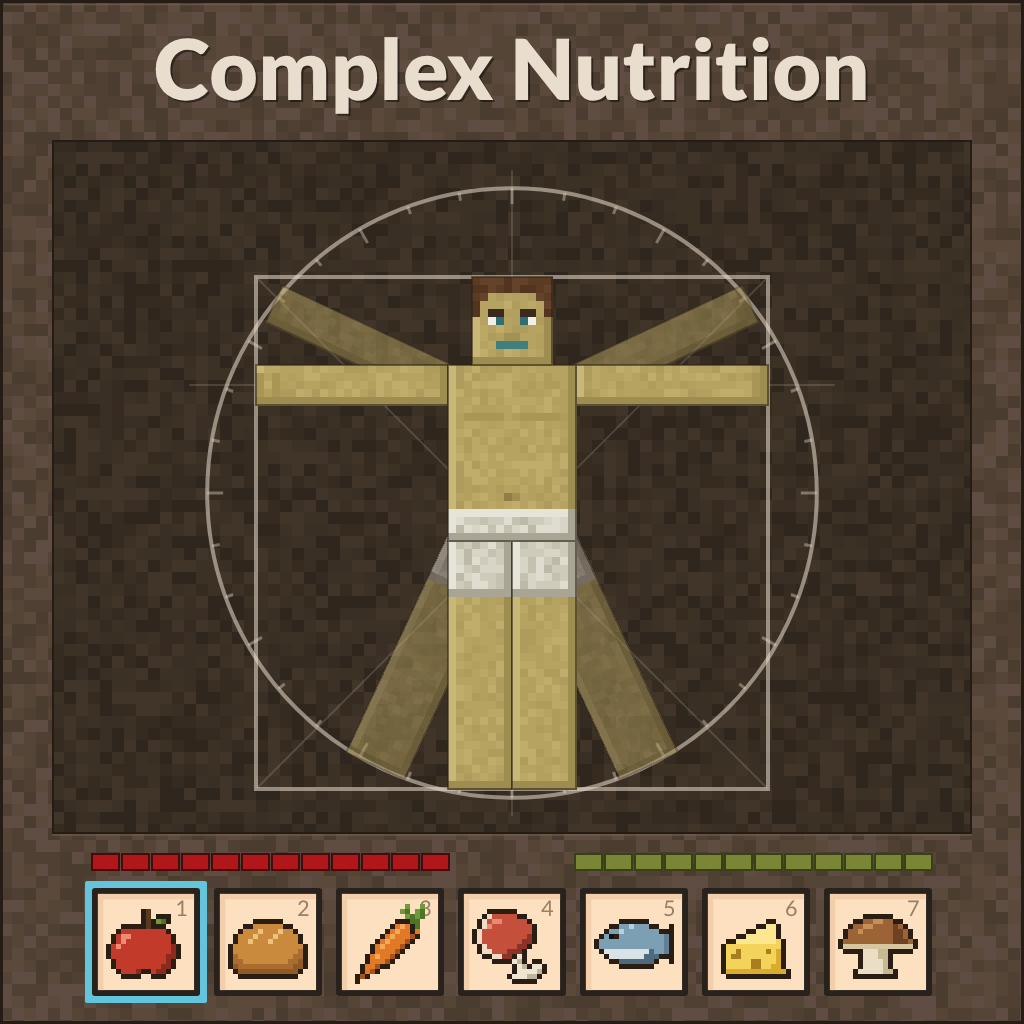
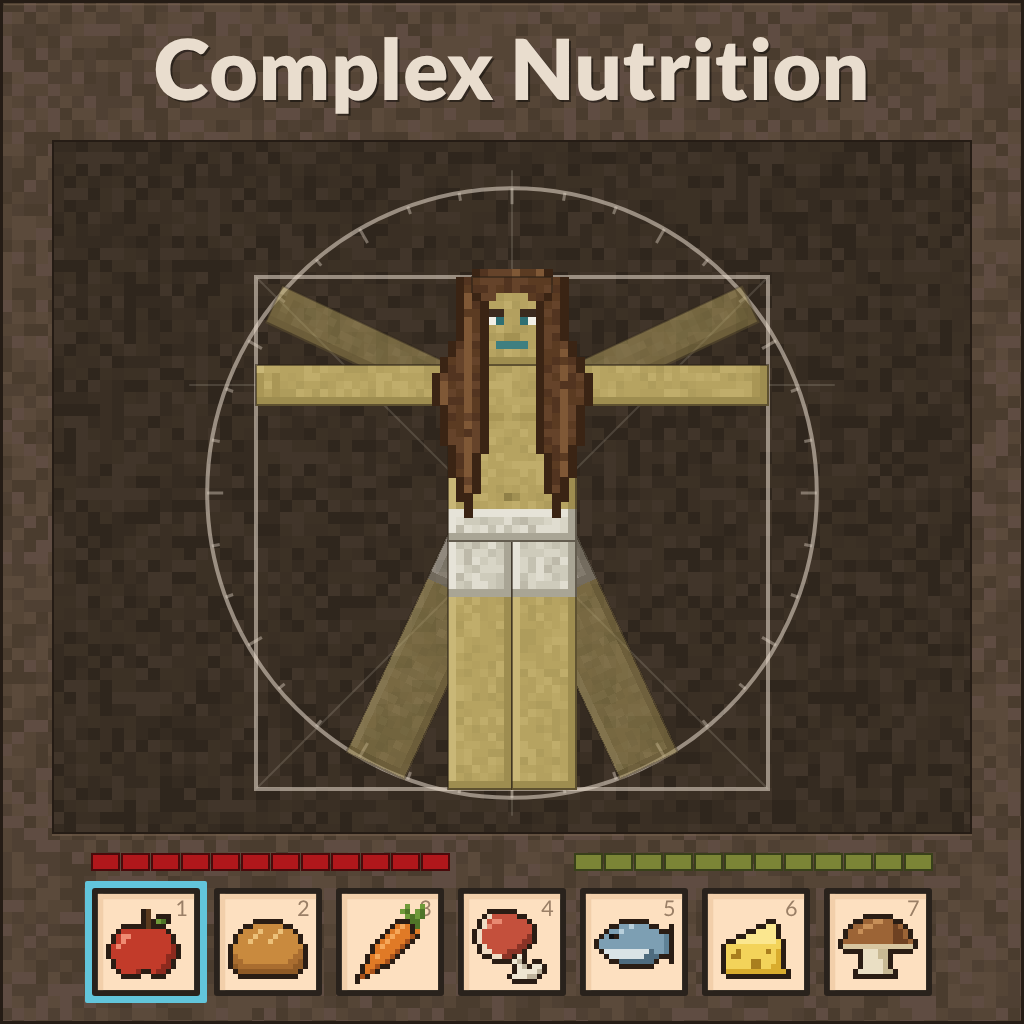
Long hair for the thumbnail figure; add v0.6 allergies to the roadmap
- Thumbnail character gets long brown hair falling over the shoulders.
- v0.6 (hidden food allergies, optional and off by default) added to the
  roadmap banner, README roadmap and module table, docs/ROADMAP.md and
  the v0.1 mod page draft.

Claude-Session: https://claude.ai/code/session_01XNC4SaMt6rLH8MzhCYGe32

Changed region(s): [[0.4062, 0.25, 0.5938, 0.5]]

diff --git a/art/roadmap.html b/art/roadmap.html
@@ -23,7 +23,8 @@ const MILESTONES = [
   { v: 'v0.3',  title: 'Nutrition UI',            note: '',                     icon: 'book',     status: 'planned' },
   { v: 'v0.4',  title: 'Diet tiers|& effects',    note: '',                     icon: 'heart',    status: 'planned' },
   { v: 'v0.5',  title: 'Health &|effects UI',     note: '',                     icon: 'flask',    status: 'planned' },
-  { v: 'v1.0',  title: 'Settings menu',           note: '',                     icon: 'cog',      status: 'planned' },
+  { v: 'v0.6',  title: 'Hidden|allergies',        note: 'off by default',       icon: 'peanut',   status: 'planned' },
+  { v: 'v1.0',  title: 'Settings|menu',           note: '',                     icon: 'cog',      status: 'planned' },
   { v: 'v1.01', title: 'Uptake|modifiers',        note: 'stretch goal',         icon: 'thermo',   status: 'planned' },
   { v: 'v1.02', title: 'Exercise|& fitness',      note: 'stretch goal',         icon: 'boot',     status: 'planned' },
   { v: 'v1.03', title: 'Who knows!',              note: 'suggestions welcome',  icon: 'question', status: 'planned' },
@@ -79,6 +80,10 @@ const GLYPH = {
     el('path', { d: 'M-20,26 L42,26 M-12,-28 L10,-28 M-12,-16 L10,-16', 'stroke-width': 2.5 }, g);
     el('path', { d: 'M-40,-6 l12,0 M-44,6 l14,0 M-38,18 l10,0', 'stroke-width': 2.5 }, g);
   },
+  peanut(g) {
+    el('path', { d: 'M-6,-40 C-26,-40 -30,-18 -18,-6 C-10,2 -30,14 -22,30 C-14,44 10,44 18,32 C26,20 10,6 18,-6 C28,-20 16,-40 -6,-40 Z' }, g);
+    for (const [x, y] of [[-10, -26], [4, -30], [-2, -16], [8, -14], [-8, 20], [6, 26], [0, 12], [-12, 30]]) el('circle', { cx: x, cy: y, r: 1.6, fill: 'currentColor', stroke: 'none' }, g);
+  },
   question(g) {
     el('path', { d: 'M-16,-18 C-16,-40 18,-42 18,-20 C18,-6 0,-4 0,10 L0,16', 'stroke-width': 6 }, g);
     el('circle', { cx: 0, cy: 32, r: 4, fill: 'currentColor' }, g);
@@ -106,7 +111,7 @@ lg.forEach(([label, ring], i) => {
 });
 
 // the milestone row sits in a sunken area, like an inventory grid
-const n = MILESTONES.length, S = 150, GAP = 40;
+const n = MILESTONES.length, S = 136, GAP = 36;
 const x0 = (W - (n * S + (n - 1) * GAP)) / 2;
 inset(svg, x0 - 40, 214, n * S + (n - 1) * GAP + 80, 430, 10, 12);
 
@@ -123,7 +128,7 @@ MILESTONES.forEach((m, i) => {
   const ring = m.status === 'done' ? VS.done : m.status === 'next' ? VS.selected : null;
   slot(svg, x, y, S, { ring });
   const ink = m.status === 'planned' ? VS.slotIcon : '#7d5a3a';
-  const g = el('g', { transform: `translate(${x + S / 2},${y + S / 2}) scale(1.15)`, fill: 'none', stroke: ink, color: ink, 'stroke-width': 4, 'stroke-linecap': 'round', 'stroke-linejoin': 'round' }, svg);
+  const g = el('g', { transform: `translate(${x + S / 2},${y + S / 2}) scale(1.05)`, fill: 'none', stroke: ink, color: ink, 'stroke-width': 4, 'stroke-linecap': 'round', 'stroke-linejoin': 'round' }, svg);
   GLYPH[m.icon](g);
   if (m.status === 'done') {          // check-mark badge in the corner
     const b = el('g', { transform: `translate(${x + S - 8},${y + 8})` }, svg);
@@ -133,9 +138,9 @@ MILESTONES.forEach((m, i) => {
 
   const cx = x + S / 2;
   const vcol = m.status === 'done' ? '#c2d06a' : m.status === 'next' ? VS.selected : VS.text;
-  text(svg, cx, y + S + 50, m.v, { 'text-anchor': 'middle', 'font-weight': 900, 'font-size': 38, fill: vcol });
+  text(svg, cx, y + S + 48, m.v, { 'text-anchor': 'middle', 'font-weight': 900, 'font-size': 36, fill: vcol });
   const lines = m.title.split('|');
-  lines.forEach((l, j) => text(svg, cx, y + S + 88 + j * 30, l, { 'text-anchor': 'middle', 'font-weight': 700, 'font-size': 25 }));
+  lines.forEach((l, j) => text(svg, cx, y + S + 88 + j * 30, l, { 'text-anchor': 'middle', 'font-weight': 700, 'font-size': 24 }));
   if (m.note) text(svg, cx, y + S + 88 + lines.length * 30 + 4, m.note, { 'text-anchor': 'middle', 'font-weight': 400, 'font-size': 20, fill: VS.textSoft });
 });
 

diff --git a/art/thumbnail.html b/art/thumbnail.html
@@ -124,11 +124,37 @@ const FACE = {
   '4,7': '#a39152', '5,7': '#a39152',                                               // nose shadow
   '3,8': '#3f7f80', '4,8': '#3f7f80', '5,8': '#3f7f80', '6,8': '#3f7f80',          // mouth
 };
+const HAIR_LIGHT = '#7f5836', HAIR_EDGE = '#3a2414';
+// Draws hair texels in body texel coords for every (u,v) where inside(u,v); vertical strands, dark outline.
+function hair(parent, u0, u1, v0, v1, inside, seed) {
+  const g = el('g', { 'shape-rendering': 'crispEdges' }, parent);
+  const r = rng(seed);
+  for (let v = v0; v < v1; v++) {
+    for (let u = u0; u < u1; u++) {
+      if (!inside(u, v)) continue;
+      const edge = !inside(u - 1, v) || !inside(u + 1, v) || !inside(u, v + 1);
+      let c = HAIR[Math.floor(r() * HAIR.length)];
+      if ((u + 40) % 3 === 1 && r() > 0.25) c = HAIR_LIGHT;    // strands catching the light
+      if (edge) c = HAIR_EDGE;
+      el('rect', { x: X(u), y: Y(v), width: T + 0.5, height: T + 0.5, fill: c }, g);
+    }
+  }
+}
+// back of the hair, framing the head
+hair(fig, -7, 7, -1, 11, (u, v) => u >= -7 && u < 7 && v >= -1 && v < 11 && !(v === -1 && (u < -5 || u > 4)), 43);
 const hr = rng(41);
 box(group(fig, X(-5), Y(0), 0, 0, 0), 10, 11, 42, skin, (u, v) => {
-  if (v < 2 || (v === 2 && (u < 2 || u > 7)) || (v < 5 && (u === 0 || u === 9))) return HAIR[Math.floor(hr() * HAIR.length)];
+  if (v < 2 || (v === 2 && (u < 3 || u > 6)) || (v === 3 && (u === 0 || u === 9))) return HAIR[Math.floor(hr() * HAIR.length)];
   return FACE[u + ',' + v] || null;
 });
+// long locks falling forward over the shoulders, with uneven ends and a little flare at the bottom
+// left side as [column, first row, end row]; the right side mirrors it (u -> -1 - u)
+const LOCK = { '-10': [12, 16], '-9': [10, 21], '-8': [8, 25], '-7': [2, 28], '-6': [2, 30], '-5': [2, 27], '-4': [3, 22] };
+const inLock = (u, v) => {
+  const s = LOCK[u < 0 ? u : -1 - u];
+  return !!s && v >= s[0] && v < s[1];
+};
+hair(fig, -10, 10, 2, 30, inLock, 44);
 
 // ---- health and satiety bars, then the hotbar with food in it ----
 const barY = IN.y + IN.h + 20, segW = 30, segs = 12;

diff --git a/README.md b/README.md
@@ -42,6 +42,7 @@ It has only been tested on Vintage Story 1.22.7 so far. Other versions might wor
 - **v0.3:** nutrition UI
 - **v0.4:** diet tiers and effects
 - **v0.5:** health and effects UI
+- **v0.6:** hidden food allergies (optional, off by default)
 - **v1.0:** settings menu
 - **v1.01:** nutrient uptake modifiers (stretch goal)
 - **v1.02:** exercise and fitness (stretch goal)
@@ -59,6 +60,7 @@ Turning one module off never breaks the others, and with all modules off the gam
 | Nutrition UI | v0.3 | Nutrition window, tooltips and optional HUD indicator |
 | Effects | v0.4 | Five diet tiers (Thriving to Malnourished) with buffs and debuffs |
 | Health UI | v0.5 | Shows your diet tier, active effects and what to eat next |
+| Allergies | v0.6 | Optional, off by default: 0 to 3 hidden food allergies per character, found by tasting; reactions hurt and slow you but never kill |
 | Settings menu | v1.0 | In-game sliders and toggles for every module |
 | Modifiers | v1.01 | Body temperature, injury and illness change nutrient uptake |
 | Exercise | v1.02 | Activity plus good diet gives slow, permanent fitness gains |

diff --git a/docs/ROADMAP.md b/docs/ROADMAP.md
@@ -38,6 +38,12 @@ Every module has its own switch. With all of them off, the game plays exactly li
 - A Health tab showing your tier, active effects and where they came from, and a hint about what to eat next.
 - Small status icons for active effects.
 
+## v0.6: Hidden allergies (optional, off by default)
+
+- Each character gets 0 to 3 hidden food allergies (a world setting, 0 to 10), seeded per world and player, kept through death.
+- Allergens follow real allergen families mapped to vanilla foods (dairy, egg, fish, wheat-type grains, nightshades, stone fruit, berries and so on). Flax is excluded unless a sub-setting allows it.
+- You find them by tasting. Reactions, including from meals and pies, hurt and slow you for a while but never kill.
+
 ## v1.0: Settings menu
 
 - Every module and number adjustable in game, with sliders and toggles, as well as in the config file and by server command.

diff --git a/docs/drafts/MODPAGE-v0.1.md b/docs/drafts/MODPAGE-v0.1.md
@@ -39,6 +39,7 @@ A few honest caveats:
 - **v0.3:** nutrition UI
 - **v0.4:** diet tiers and effects
 - **v0.5:** health and effects UI
+- **v0.6:** hidden food allergies (optional, off by default)
 - **v1.0:** settings menu
 - **v1.01:** nutrient uptake modifiers (stretch goal)
 - **v1.02:** exercise and fitness (stretch goal)
